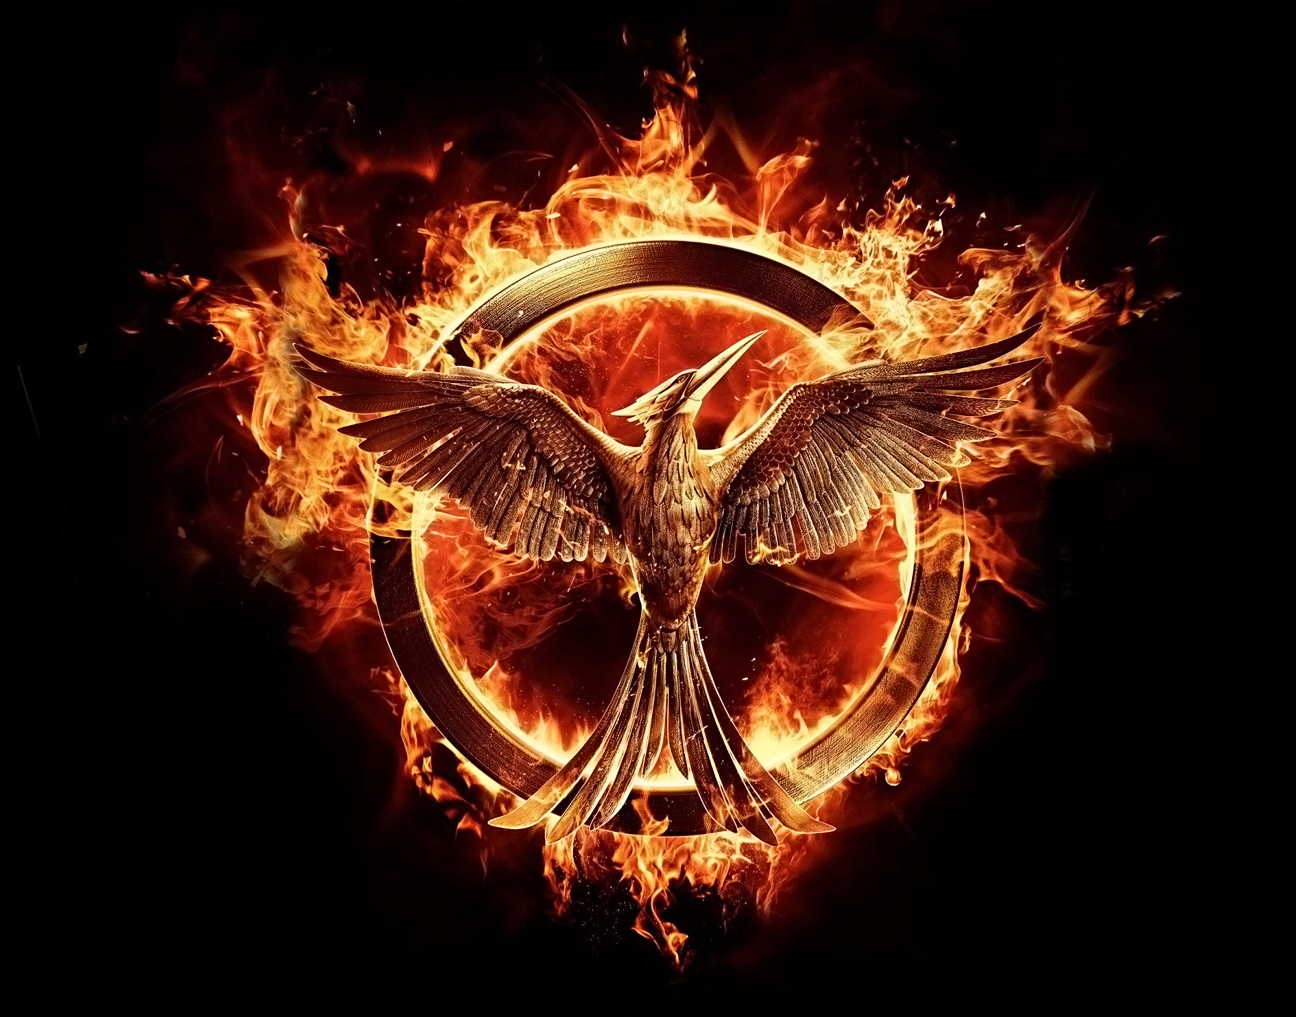
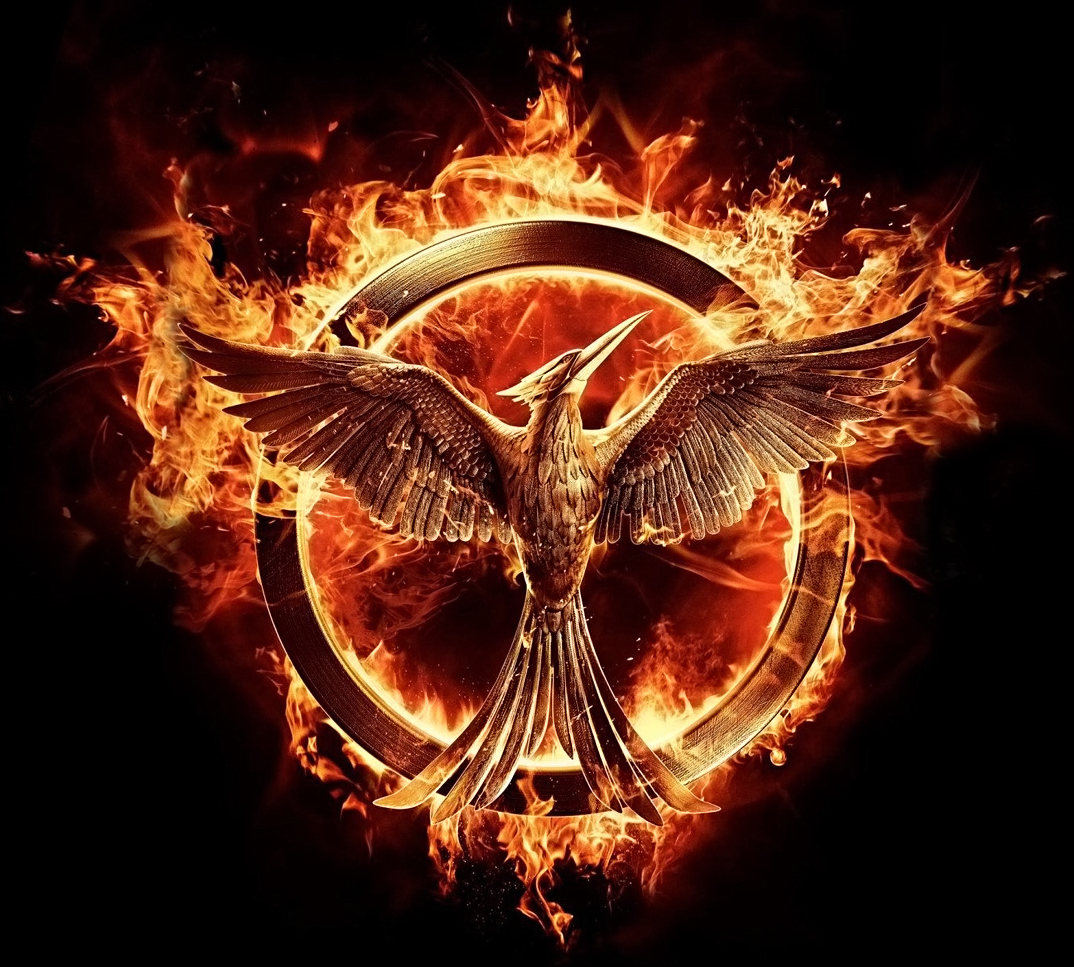
made welcome modal responsive

diff --git a/styles.css b/styles.css
@@ -1,5 +1,5 @@
 
-/* -------------- all -------------- */
+/* -------------- ALL -------------- */
 
 @font-face {
     font-family: 'BankGothic';
@@ -22,13 +22,11 @@ body {
 
 .start, .shoot {
     display: block;
-    height: 6.5vh;
-    width: 10vw;
+    height: 6.5%;
+    min-width: 10%;
     border: none;
-    -webkit-border-radius: 25px;
-    -moz-border-radius: 25px;
     border-radius: 25px;
-    font-size: 2vw;
+    font-size: 4vh;
     font-weight: 900;
     cursor: pointer;
     font-family: 'BankGothic', sans-serif;
@@ -38,14 +36,14 @@ body {
     border: none;
 }*/
 
-/* -------------- intro -------------- */
+/* -------------- INTRO -------------- */
 
 #intro {
     height: 100vh;
     width: 100vw;
     background-color: black;
     margin: auto;
-    padding: 3% 0;
+    padding: 2% 0;
     position: absolute;
     top: 0;
     left: 0;
@@ -58,15 +56,15 @@ h1, h2 {
 }
 
 h1 {
-    font-size: 3vw;
-    margin: -2vh 0 -2vh 0;
+    font-size: 5vh;
+    margin: 0 0 -2% 0;
     opacity: 0.999;
 }
 
 h2 {
-    font-size: 2.5vw;
-    padding: 0 10vw;
-    margin: -3vh 0 0 0;
+    font-size: 4vh;
+    padding: 0 10%;
+    margin: -2% 0 0 0;
     opacity: 0.999;
 }
 
@@ -80,7 +78,7 @@ h2 {
 .logo {
     display: block;
     margin: -1% auto 0 auto;
-    height: 70vh;
+    width: 45%;
 }
 
 /* -------------- game -------------- */
@@ -147,7 +145,7 @@ p {
 #grass {
     background: url(images/grass.jpg);
     background-repeat: repeat-x;
-    width: 1440px;
+    width: 100vw;
     height: 202px;
     animation: move-left 0.8s steps(6) infinite;
     position: absolute;

diff --git a/main.js b/main.js
@@ -166,11 +166,8 @@ function tribute_arrives(){
     var elem = document.getElementById("tribute");
     var randomizer = Math.floor(Math.random()*tributes.length);
     $("#tribute").css(tributes[randomizer]);
-    
     tributes.splice(randomizer, 1);
-    
-    
-    var pos = -1800;
+    var pos = -1950;
     var timer = setInterval(frame, -100);
     function frame() {
         if (pos == -1150) {
